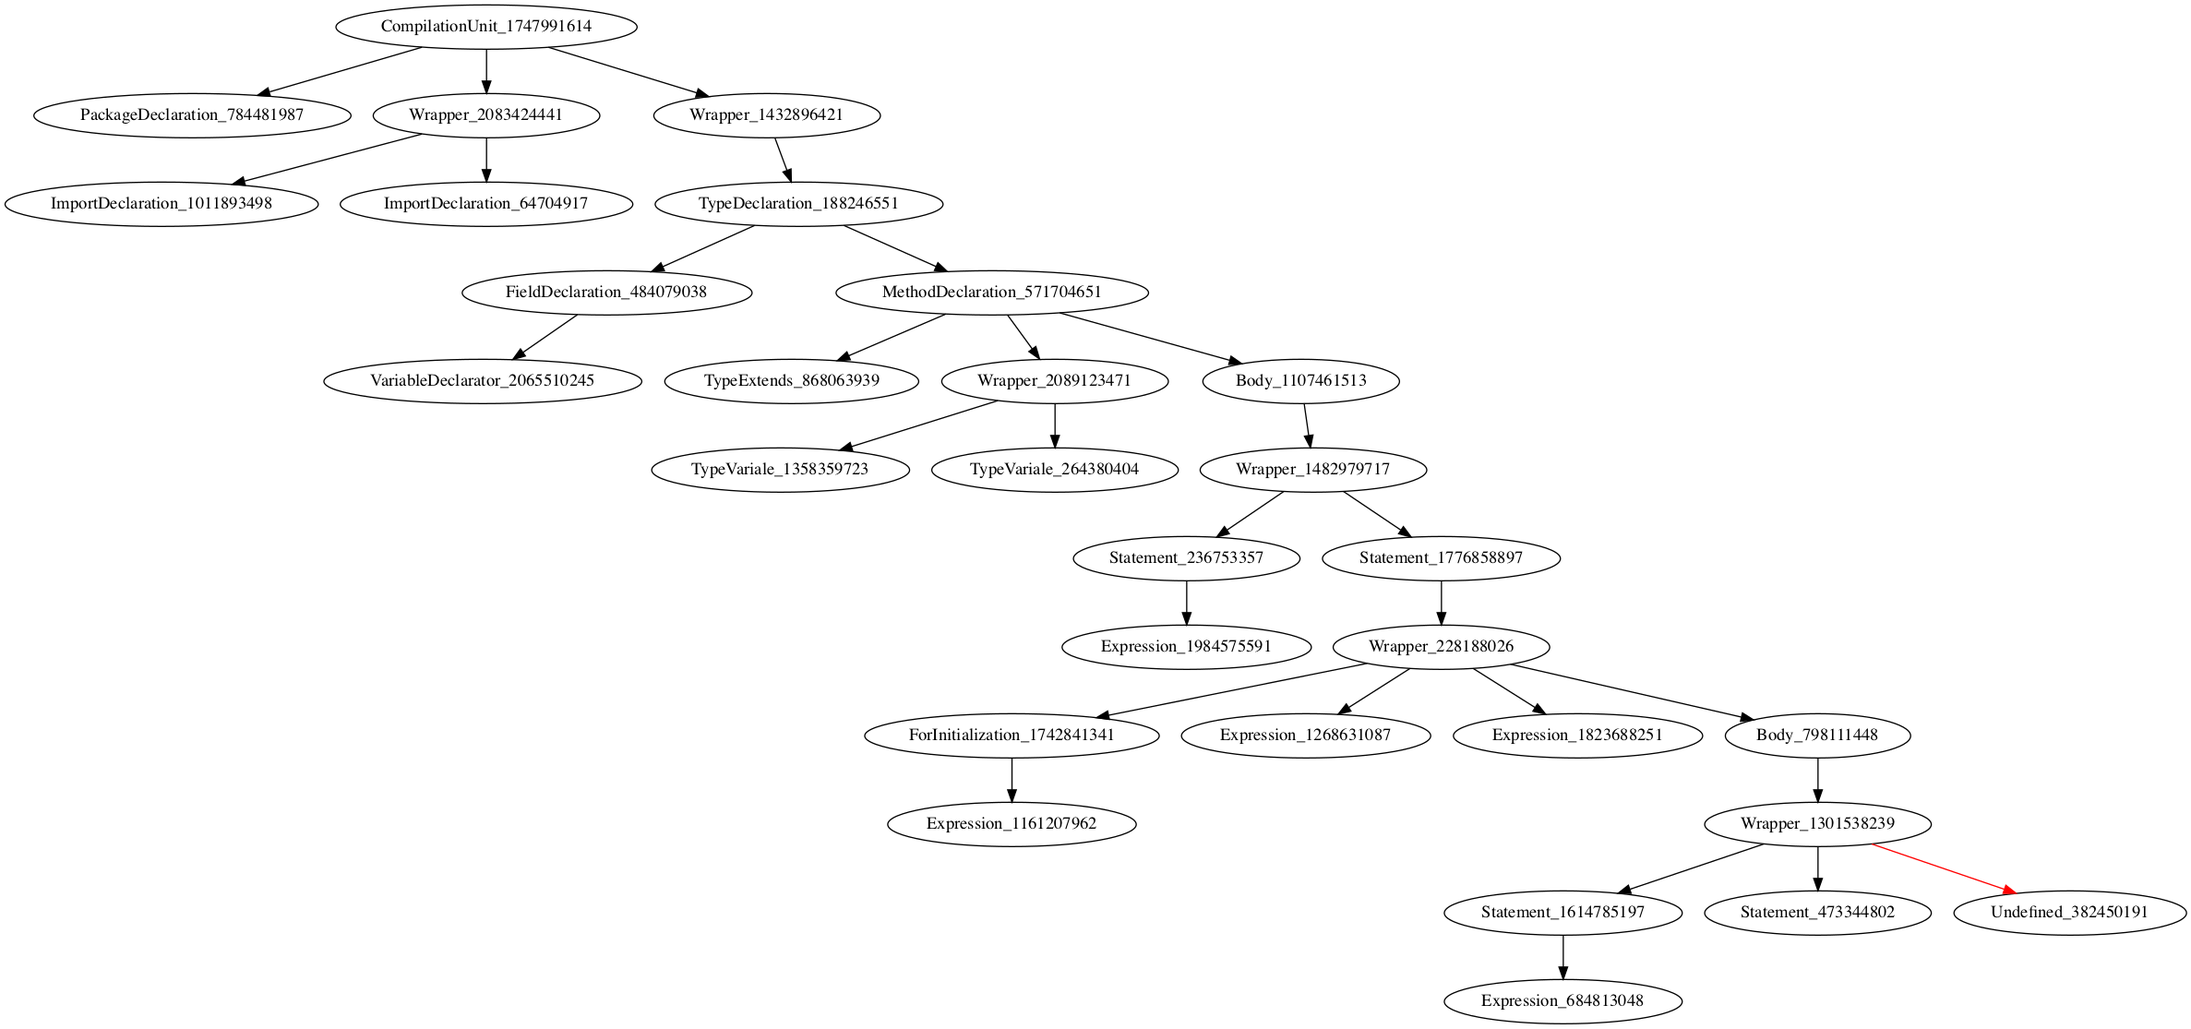
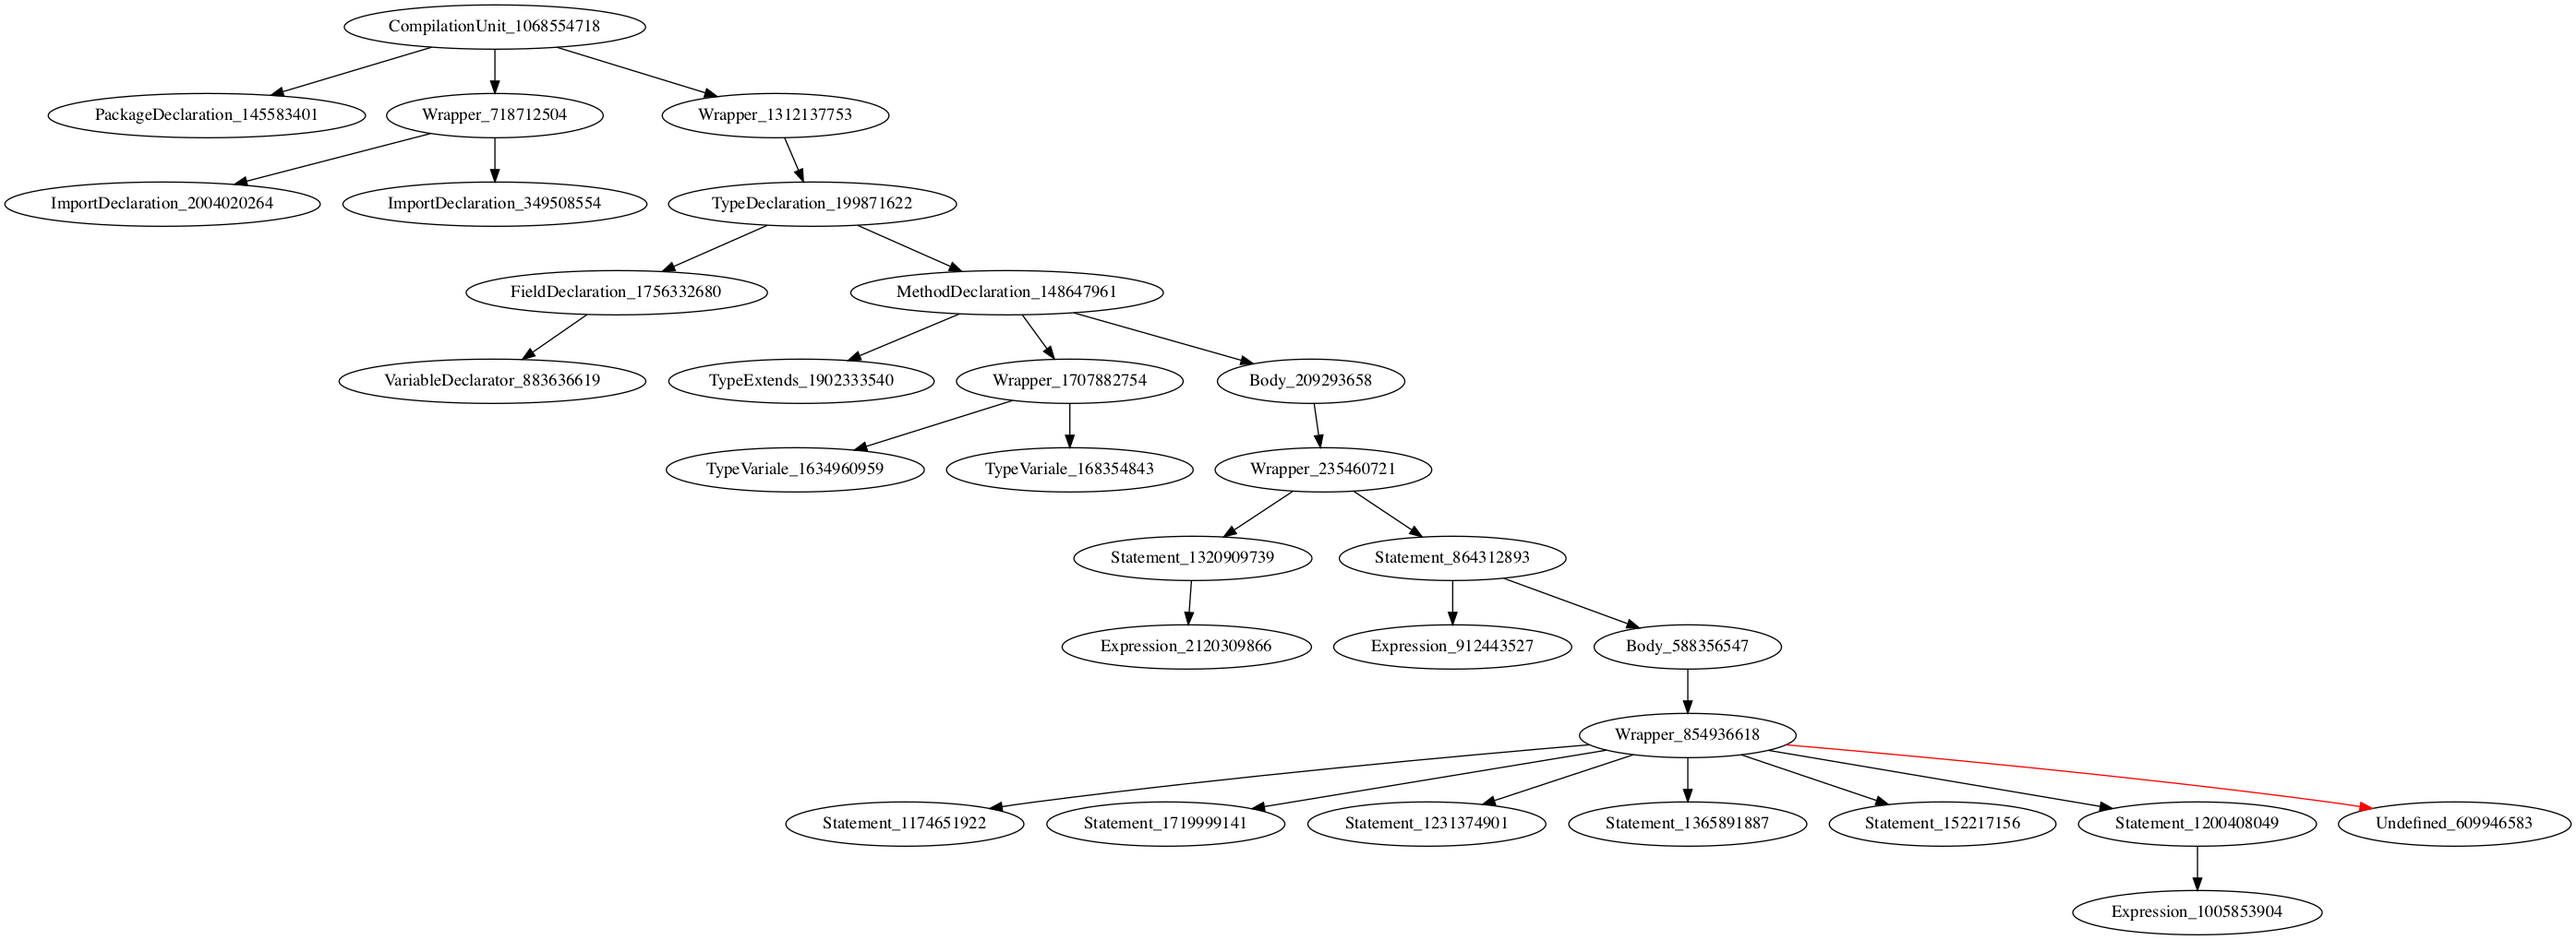
[add] while code generation

diff --git a/voice2code/src/main/java/cn/edu/lyun/kexin/text2code/Text2CompilationUnit.java b/voice2code/src/main/java/cn/edu/lyun/kexin/text2code/Text2CompilationUnit.java
@@ -9,6 +9,7 @@ import java.rmi.server.ExportException;
 import java.util.*;
 
 import cn.edu.lyun.util.Pair;
+import cn.edu.lyun.util.StringHelper;
 import javassist.bytecode.analysis.ControlFlow.Block;
 
 import com.github.javaparser.ast.CompilationUnit;
@@ -32,6 +33,7 @@ import com.github.javaparser.ast.stmt.BlockStmt;
 import com.github.javaparser.ast.stmt.ExpressionStmt;
 import com.github.javaparser.ast.stmt.ForStmt;
 import com.github.javaparser.ast.stmt.Statement;
+import com.github.javaparser.ast.stmt.WhileStmt;
 import com.github.javaparser.printer.lexicalpreservation.LexicalPreservingPrinter;
 import cn.edu.lyun.kexin.text2ast.ASTManager;
 import cn.edu.lyun.kexin.text2ast.FieldAST;
@@ -317,10 +319,17 @@ public class Text2CompilationUnit {
 					HoleNode holeNodeChild = new HoleNode(HoleType.Expression, true);
 					holeNodeChild.setHoleTypeOptions(new HoleType[] { HoleType.Expression });
 					currentHole.addChild(holeNodeChild);
-
 				}
 				break;
 			case "while":
+				BlockStmt blockStmt = (BlockStmt) parentNodeAndIndex.getFirst();
+				NodeList<Statement> statements = blockStmt.getStatements();
+				statements.add((Statement) node);
+				currentHole.setIsHole(false);
+				currentHole.setHoleType(HoleType.Statement);
+				HoleNode holeNodeChild = new HoleNode(HoleType.Expression, true);
+				holeNodeChild.setHoleTypeOptions(new HoleType[] { HoleType.Expression });
+				currentHole.addChild(holeNodeChild);
 				break;
 			case "if":
 				break;
@@ -341,14 +350,114 @@ public class Text2CompilationUnit {
 			case "throw":
 				break;
 			case "let1":
+				if (parentNodeClassStr.equals("WhileStmt")) {
+					WhileStmt whileStmt = (WhileStmt) parentNodeAndIndex.getFirst();
+					Statement body = whileStmt.getBody();
+					String bodyClassStr = body.getClass().toString();
+					bodyClassStr = bodyClassStr.substring(bodyClassStr.lastIndexOf(".") + 1);
+					if (bodyClassStr.equals("ReturnStmt")) {
+						blockStmt = new BlockStmt();
+						statements = new NodeList<Statement>();
+						ExpressionStmt expressionStmt = new ExpressionStmt((Expression) node);
+						statements.add(expressionStmt);
+						blockStmt.setStatements(statements);
+						whileStmt.setBody(blockStmt);
+
+						currentHole.setHoleType(HoleType.Body);
+						currentHole.setIsHole(false);
+
+						HoleNode anotherCurrentHole = new HoleNode();
+						anotherCurrentHole.setHoleType(HoleType.Wrapper);
+						anotherCurrentHole.setIsHole(false);
+						currentHole.addChild(anotherCurrentHole);
+
+						HoleNode childNode = new HoleNode(HoleType.Statement, false);
+						anotherCurrentHole.addChild(childNode);
+
+						HoleNode newHole = new HoleNode(HoleType.Statement, true);
+						anotherCurrentHole.addChild(newHole);
+					} else {
+					}
+				}
 				break;
 			case "let2":
+				if (parentNodeClassStr.equals("WhileStmt")) {
+					WhileStmt whileStmt = (WhileStmt) parentNodeAndIndex.getFirst();
+					Statement body = whileStmt.getBody();
+					String bodyClassStr = body.getClass().toString();
+					bodyClassStr = bodyClassStr.substring(bodyClassStr.lastIndexOf(".") + 1);
+					if (bodyClassStr.equals("ReturnStmt")) {
+						blockStmt = new BlockStmt();
+						statements = new NodeList<Statement>();
+						ExpressionStmt expressionStmt = new ExpressionStmt((Expression) node);
+						statements.add(expressionStmt);
+						blockStmt.setStatements(statements);
+						whileStmt.setBody(blockStmt);
+
+						currentHole.setHoleType(HoleType.Body);
+						currentHole.setIsHole(false);
+
+						HoleNode anotherCurrentHole = new HoleNode();
+						anotherCurrentHole.setHoleType(HoleType.Wrapper);
+						anotherCurrentHole.setIsHole(false);
+						currentHole.addChild(anotherCurrentHole);
+
+						HoleNode childNode = new HoleNode(HoleType.Statement, false);
+						anotherCurrentHole.addChild(childNode);
+
+						HoleNode newHole = new HoleNode(HoleType.Statement, true);
+						anotherCurrentHole.addChild(newHole);
+					}
+				} else if (parentNodeClassStr.equals("BlockStmt")) {
+					blockStmt = (BlockStmt) parentNodeAndIndex.getFirst();
+					statements = blockStmt.getStatements();
+					ExpressionStmt expressionStmt = new ExpressionStmt((Expression) node);
+
+					statements.add(expressionStmt);
+
+					currentHole.setIsHole(false);
+					holeNode = new HoleNode(HoleType.Statement, true);
+					parentHole.addChild(holeNode);
+				}
 				break;
 			case "let3":
+				if (parentNodeClassStr.equals("BlockStmt")) {
+					blockStmt = (BlockStmt) parentNodeAndIndex.getFirst();
+					statements = blockStmt.getStatements();
+					ExpressionStmt expressionStmt = new ExpressionStmt((Expression) node);
+
+					statements.add(expressionStmt);
+
+					currentHole.setIsHole(false);
+					holeNode = new HoleNode(HoleType.Statement, true);
+					parentHole.addChild(holeNode);
+				}
 				break;
 			case "let4":
+				if (parentNodeClassStr.equals("BlockStmt")) {
+					blockStmt = (BlockStmt) parentNodeAndIndex.getFirst();
+					statements = blockStmt.getStatements();
+					ExpressionStmt expressionStmt = new ExpressionStmt((Expression) node);
+
+					statements.add(expressionStmt);
+
+					currentHole.setIsHole(false);
+					holeNode = new HoleNode(HoleType.Statement, true);
+					parentHole.addChild(holeNode);
+				}
 				break;
 			case "let5":
+				if (parentNodeClassStr.equals("BlockStmt")) {
+					blockStmt = (BlockStmt) parentNodeAndIndex.getFirst();
+					statements = blockStmt.getStatements();
+					ExpressionStmt expressionStmt = new ExpressionStmt((Expression) node);
+
+					statements.add(expressionStmt);
+
+					currentHole.setIsHole(false);
+					holeNode = new HoleNode(HoleType.Statement, true);
+					parentHole.addChild(holeNode);
+				}
 				break;
 			case "let6":
 				if (parentNodeClassStr.equals("ForStmt")) {
@@ -360,8 +469,8 @@ public class Text2CompilationUnit {
 					String bodyClassStr = body.getClass().toString();
 					bodyClassStr = bodyClassStr.substring(bodyClassStr.lastIndexOf(".") + 1);
 					if (bodyClassStr.equals("ReturnStmt")) {
-						BlockStmt blockStmt = new BlockStmt();
-						NodeList<Statement> statements = new NodeList<Statement>();
+						blockStmt = new BlockStmt();
+						statements = new NodeList<Statement>();
 						ExpressionStmt expressionStmt = new ExpressionStmt((Expression) node);
 						statements.add(expressionStmt);
 						blockStmt.setStatements(statements);
@@ -390,6 +499,14 @@ public class Text2CompilationUnit {
 					} else {
 						System.out.println("Should not go to this branch");
 					}
+				} else if (parentNodeClassStr.equals("BlockStmt")) {
+					blockStmt = (BlockStmt) parentNodeAndIndex.getFirst();
+					statements = blockStmt.getStatements();
+					ExpressionStmt expressionStmt = new ExpressionStmt((Expression) node);
+					statements.add(expressionStmt);
+					currentHole.setIsHole(false);
+					holeNode = new HoleNode(HoleType.Expression, true);
+					currentHole.addChild(holeNode);
 				}
 				break;
 			case "return1":
@@ -398,8 +515,8 @@ public class Text2CompilationUnit {
 				break;
 			case "return3":
 				if (parentNodeClassStr.equals("BlockStmt")) {
-					BlockStmt blockStmt = (BlockStmt) parentNodeAndIndex.getFirst();
-					NodeList<Statement> statements = blockStmt.getStatements();
+					blockStmt = (BlockStmt) parentNodeAndIndex.getFirst();
+					statements = blockStmt.getStatements();
 					statements.add((Statement) node);
 					currentHole.setIsHole(false);
 					currentHole.setHoleType(HoleType.Statement);
@@ -435,16 +552,26 @@ public class Text2CompilationUnit {
 					parentOfParentHole.addChild(holeNode);
 				} else if (parentNodeClassStr.equals("ExpressionStmt")) {
 					ExpressionStmt expressionStmt = (ExpressionStmt) parentNodeAndIndex.getFirst();
-					VariableDeclarationExpr variableDeclarationExpr = (VariableDeclarationExpr) expressionStmt.getExpression();
-					NodeList<VariableDeclarator> variableDeclarators = variableDeclarationExpr.getVariables();
-					variableDeclarators.get(0).setInitializer((Expression) node);
+					String expressionClassStr = StringHelper.getClassName(expressionStmt.getExpression().getClass().toString());
+					if (expressionClassStr.equals("VariableDeclarationExpr")) {
+						VariableDeclarationExpr variableDeclarationExpr = (VariableDeclarationExpr) expressionStmt.getExpression();
+						NodeList<VariableDeclarator> variableDeclarators = variableDeclarationExpr.getVariables();
+						variableDeclarators.get(0).setInitializer((Expression) node);
 
-					currentHole.setIsHole(false);
-					currentHole.setHoleType(HoleType.Expression);
+						currentHole.setIsHole(false);
+						currentHole.setHoleType(HoleType.Expression);
 
-					holeNode = new HoleNode(HoleType.Undefined, true);
-					holeNode.setHoleTypeOptions(new HoleType[] { HoleType.Statement });
-					parentOfParentHole.addChild(holeNode);
+						holeNode = new HoleNode(HoleType.Undefined, true);
+						holeNode.setHoleTypeOptions(new HoleType[] { HoleType.Statement });
+						parentOfParentHole.addChild(holeNode);
+
+					} else if (expressionClassStr.equals("AssignExpr")) {
+						AssignExpr assignExpr = (AssignExpr) expressionStmt.getExpression();
+						assignExpr.setValue((Expression) node);
+						currentHole.setIsHole(false);
+						holeNode = new HoleNode(HoleType.Undefined, true);
+						parentOfParentHole.addChild(holeNode);
+					}
 				} else if (parentNodeClassStr.equals("VariableDeclarationExpr")) {
 					VariableDeclarationExpr variableDeclarationExpr = (VariableDeclarationExpr) parentNodeAndIndex.getFirst();
 					NodeList<VariableDeclarator> variableDeclarators = variableDeclarationExpr.getVariables();
@@ -512,7 +639,13 @@ public class Text2CompilationUnit {
 					holeNode.setIsHole(true);
 					holeNode.setHoleType(HoleType.Undefined);
 					parentOfParentHole.addChild(holeNode);
+				} else if (parentNodeClassStr.equals("WhileStmt")) {
+					WhileStmt whileStmt = (WhileStmt) parentNodeAndIndex.getFirst();
+					whileStmt.setCondition((Expression) node);
+					currentHole.setIsHole(false);
 
+					holeNode = new HoleNode(HoleType.Body, true);
+					parentHole.addChild(holeNode);
 				}
 				break;
 			case "subexpr1":

diff --git a/voice2code/src/test/java/cn/edu/lyun/kexin/test/text2code/Text2CompilationUnitTest.java b/voice2code/src/test/java/cn/edu/lyun/kexin/test/text2code/Text2CompilationUnitTest.java
@@ -17,8 +17,9 @@ public class Text2CompilationUnitTest {
 				"import java dot lang dot reflect dot star", "move next", "define public class Hello",
 				"define private int variable greeting", "int 2", "define public function sayHello", "type int",
 				"type int list variable intArray", "type String variable name", "move next", "define int variable sum", "int 0",
-				"define for", "define int variable i", "int 0", "expression i less equal 10", "i plus plus",
-				"let sum equal expression", "expression sum plus i", };
+				"define while", "i less than 10", "let sum equal call fibonacci",
+				"let hello dot sum equal hello call fibonacci", "let sum equal hello dot sum", "let sum equal variable x",
+				"let sum equal int 200", "let sum equal expression", "int 2" };
 
 		String[] lines = example2;
 
@@ -26,7 +27,7 @@ public class Text2CompilationUnitTest {
 			text2CompilationUnit.generate(line);
 		}
 
-		text2CompilationUnit.generate("return sum");
+		text2CompilationUnit.generate();
 		text2CompilationUnit.getHoleAST().writeDotFile();
 		Runtime rt = Runtime.getRuntime();
 		try {

diff --git a/Test.java b/Test.java
@@ -9,9 +9,13 @@ public class Hello {
 
     public int sayHello(int[] intArray, String name) {
         int sum = 0;
-        for (int i = 0; i <= 10; i++) {
-            sum = sum + i;
-            return sum;
+        while (i < 10) {
+            sum = fibonacci();
+            hello.sum = hello.fibonacci();
+            sum = hello.sum;
+            sum = x;
+            sum = 200;
+            sum = 2;
         }
     }
 }

diff --git a/voice2code/src/main/java/cn/edu/lyun/util/StringHelper.java b/voice2code/src/main/java/cn/edu/lyun/util/StringHelper.java
@@ -1,0 +1,9 @@
+package cn.edu.lyun.util;
+
+public class StringHelper {
+	public static String getClassName(String fullName) {
+		// "class cn.lyun.edu.Hello" -> "Hello"
+		return fullName.substring(fullName.lastIndexOf(".") + 1);
+	}
+
+}
